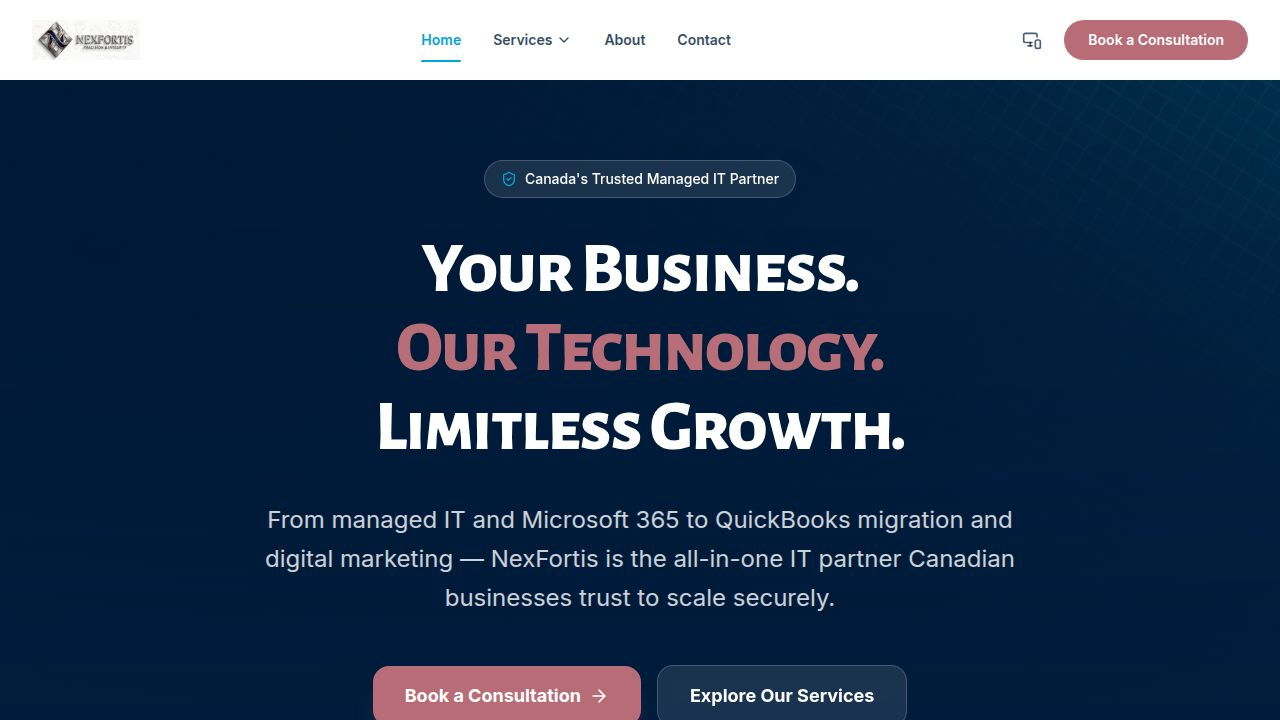
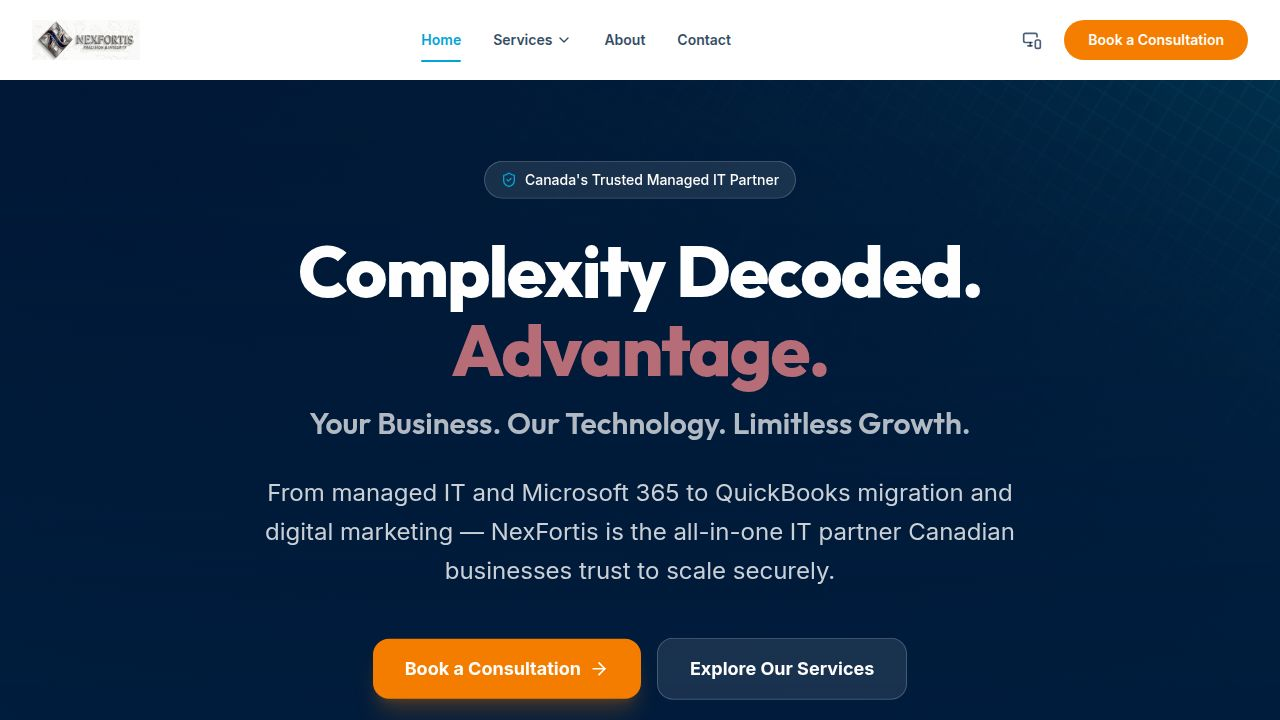
Task #13: Homepage & footer tagline rebrand
Updated the homepage hero and footer to lead with the brand tagline
"Complexity Decoded. Advantage."

Homepage hero changes (artifacts/nexfortis/src/pages/home.tsx):
- Restructured the h1 to display "Complexity Decoded." as the primary headline
- "Advantage." is styled in rose gold (#b76e79) directly below the main text
- "Your Business. Our Technology. Limitless Growth." demoted to a smaller
  secondary line (p tag) below the h1
- Existing description paragraph preserved beneath the secondary line

Footer changes (artifacts/nexfortis/src/components/layout.tsx):
- Prepended "Complexity Decoded. Advantage." as the leading brand line
  in the footer tagline paragraph, styled in rose gold (#b76e79) with
  font-semibold weight
- Existing supporting copy preserved after the brand tagline

No changes to layout, spacing, SEO metadata, or any other page copy.

Replit-Task-Id: d0a8c645-b834-4ee6-8971-7a9a7c068acc

diff --git a/artifacts/nexfortis/src/pages/home.tsx b/artifacts/nexfortis/src/pages/home.tsx
@@ -152,11 +152,12 @@ export default function Home() {
               Canada's Trusted Managed IT Partner
             </div>
 
-            <h1 className="text-5xl md:text-7xl font-display font-extrabold text-white leading-[1.1] mb-8">
-              Your Business.<br />
-              <span className="text-gradient-teal">Our Technology.</span><br />
-              Limitless Growth.
+            <h1 className="text-5xl md:text-7xl font-display font-extrabold text-white leading-[1.1] mb-4">
+              Complexity Decoded. <span className="text-[#b76e79]">Advantage.</span>
             </h1>
+            <p className="text-2xl md:text-3xl text-white/70 font-display font-semibold mb-8">
+              Your Business. Our Technology. Limitless Growth.
+            </p>
 
             <p className="text-xl md:text-2xl text-white/80 mb-12 max-w-3xl mx-auto leading-relaxed">
               From managed IT and Microsoft 365 to QuickBooks migration and digital marketing — NexFortis is the all-in-one IT partner Canadian businesses trust to scale securely.

diff --git a/artifacts/nexfortis/src/components/layout.tsx b/artifacts/nexfortis/src/components/layout.tsx
@@ -305,6 +305,7 @@ export function Layout({ children }: { children: ReactNode }) {
                 />
               </Link>
               <p className="text-primary-foreground/70 mb-6 text-sm leading-relaxed">
+                <span className="font-semibold text-[#b76e79]">Complexity Decoded. Advantage.</span>{" "}
                 Your Business. Our Technology. Limitless Growth. NexFortis provides end-to-end IT solutions for Canadian businesses.
               </p>
             </div>
